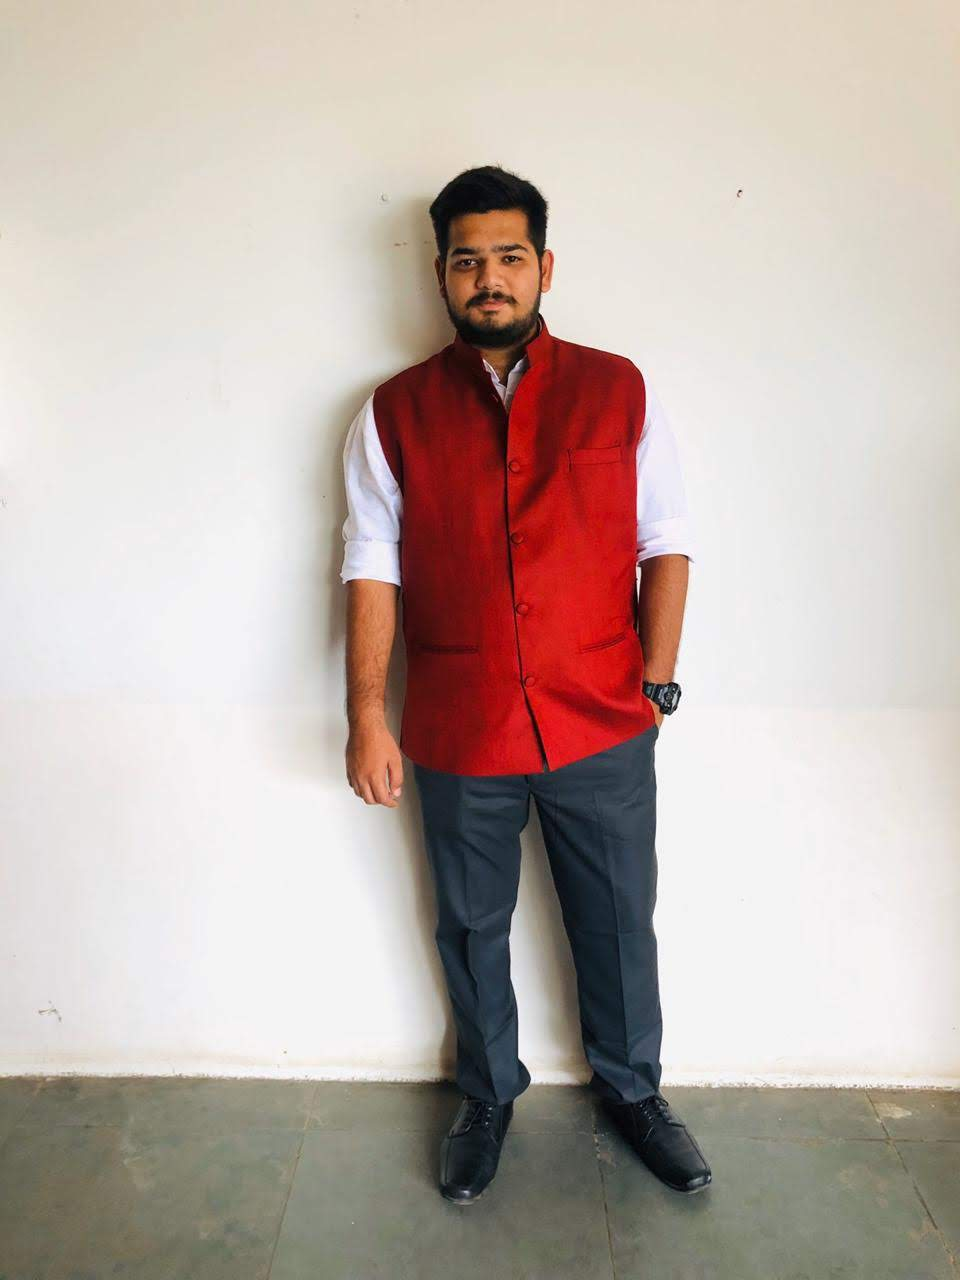
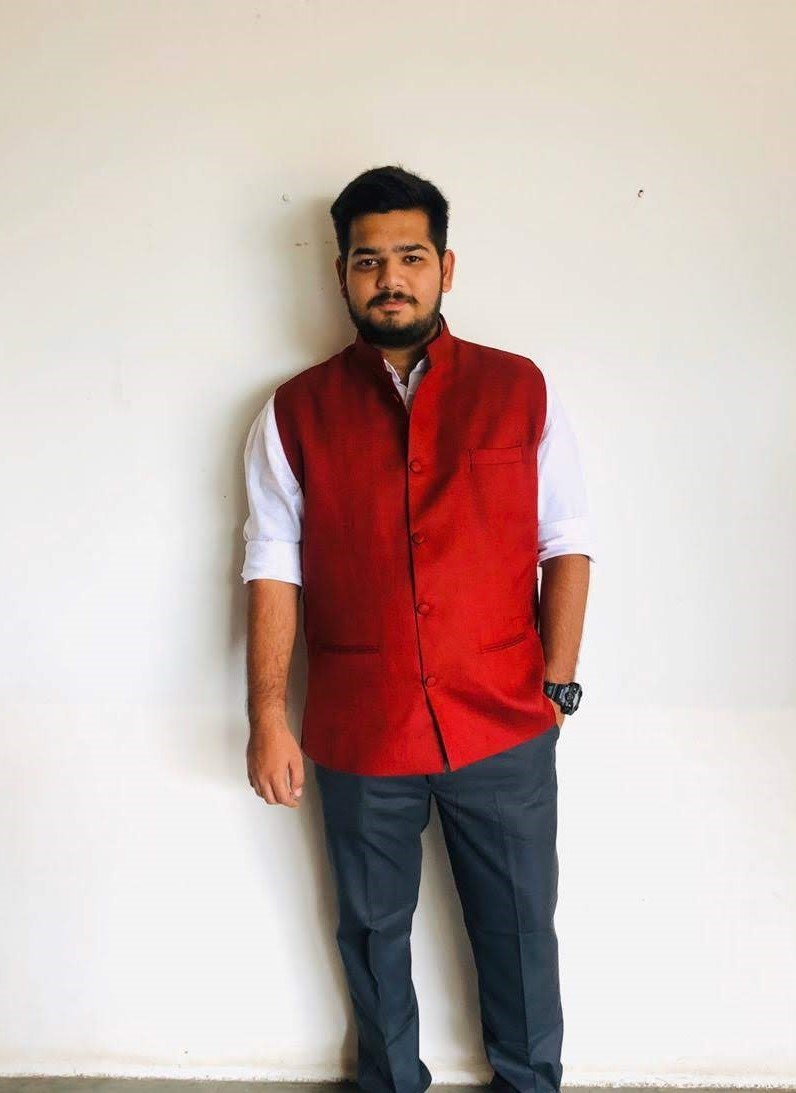
updated index page

diff --git a/index.html b/index.html
@@ -120,7 +120,7 @@
 			background-size: cover;
 		}
 		.mypage{
-			background-image:url("images/Animation.jpg"); 
+			background-image:url("images/InkedScreenshot (17)_LI.jpg"); 
 			background-position:center;
 			background-repeat: no-repeat;
 			height: 100%;
@@ -200,13 +200,13 @@
 			</div>
 		</div>
 	</nav>
-	<!-- <section id="home-section" class="hero">
+	<section id="home-section" class="hero">
 		<div class="home-slider  owl-carousel">
 			<div class="slider-item ">
 				
 				<div class="container">
 					<div class="row d-md-flex no-gutters slider-text align-items-end justify-content-end" data-scrollax-parent="true">
-						<div class="one-third js-fullheight order-md-last img" style="background-image:url(images/home-right.png); height: 70%; width: 70;">
+						<div class="one-third js-fullheight order-md-last img" style="background-image:url(images/IMG-20191221-WA0066.jpg); height: 70%; width: 40;">
 							<div class="overlay">
 								
 							</div>
@@ -214,23 +214,23 @@
 						<div class="one-forth d-flex  align-items-center ftco-animate" data-scrollax=" properties: { translateY: '70%' }">
 							<div class="text">
 								<span class="subheading">Hello!</span>
-								<h1 class="mb-4 mt-3">I'm <span>Bhargav Borse</span></h1>
-								<h2 class="mb-4">A Web Developer and Designer</h2>
-								<h5 class="mb-4">Portfolio-2020</h5>
-								<p><a href="#contact-section" class="btn btn-primary py-3 px-4">Contact me</a> <a href="#mywork-section" class="btn btn-white btn-outline-white py-3 px-4">My work</a> <a href="#about-section" class="btn btn-white btn-outline-white py-3 px-4">About Me</a> </p>
+								<h1 class="mb-head">I'm <span class="mb-mini">Bhargav Borse</span></h1>
+								<h3 class="mb-4">A Web Developer and Designer</h3>
+								<h5 class="mb-4 mb-mini">Portfolio-<script type="text/javascript">var year = new Date();document.write(year.getFullYear());</script></h5>
+								<p><a href="#contact-section" class="btn btn-primary py-3 px-4">Contact me</a> <a href="#mywork-section" class="btn btn-white btn-outline-white py-3 px-4">My work</a> </p>
 							</div>
 						</div>
 					</div>
 				</div>
 			</div>
 		</div>
-	</section> -->
+	</section>
 	
 	
 	
-	<section id="home-section" class="hero">
-		<!-- <div class="container"> -->
-			<!-- <div class="row"> -->
+	<!-- <section id="home-section" class="hero">
+		<div class="container">
+			<div class="row">
 				<div class="col-md-12 mypage one-third js-fullheight order-md-last">
 					<div class="content-page">
 						<div class="one-forth d-flex  align-items-center ftco-animate" data-scrollax=" properties: { translateY: '70%' }">
@@ -244,9 +244,9 @@
 						</div>
 					</div>
 				</div>
-				<!-- </div> -->
-				<!-- </div> -->
-			</section>
+				</div>
+				</div> 
+			</section> -->
 			
 			
 			<section class="ftco-about img ftco-section ftco-no-pb" id="about-section">
